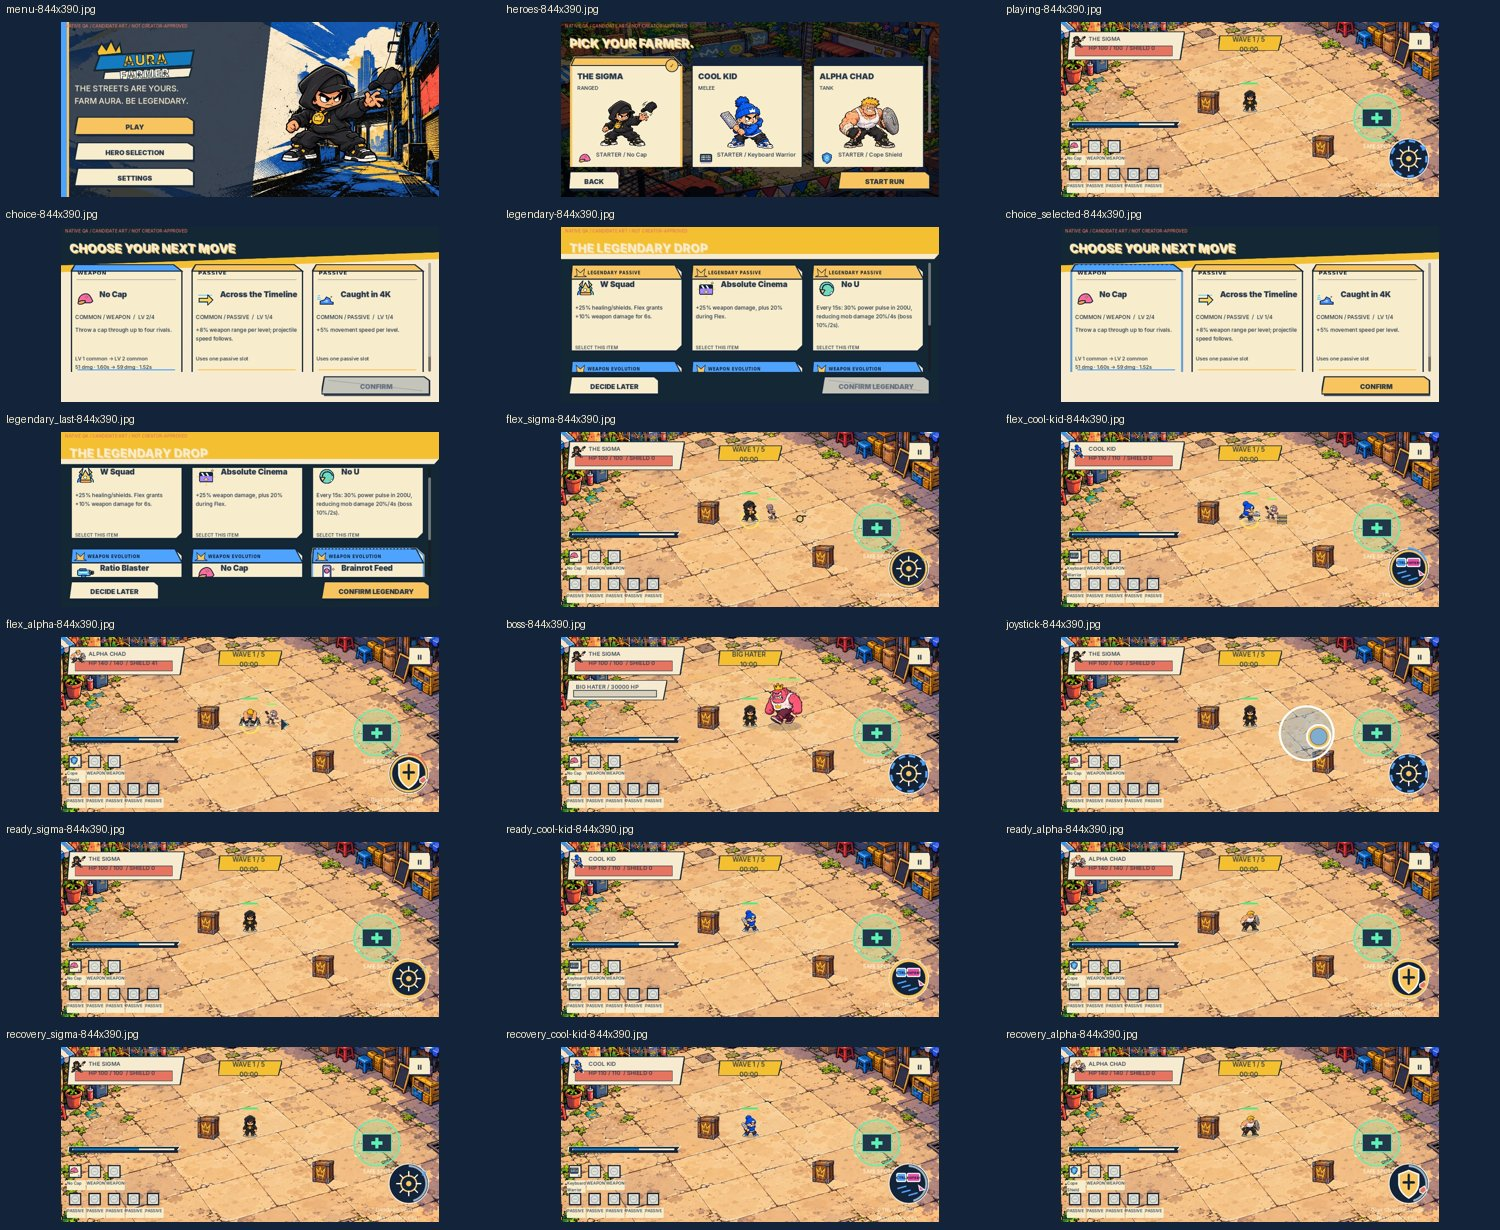
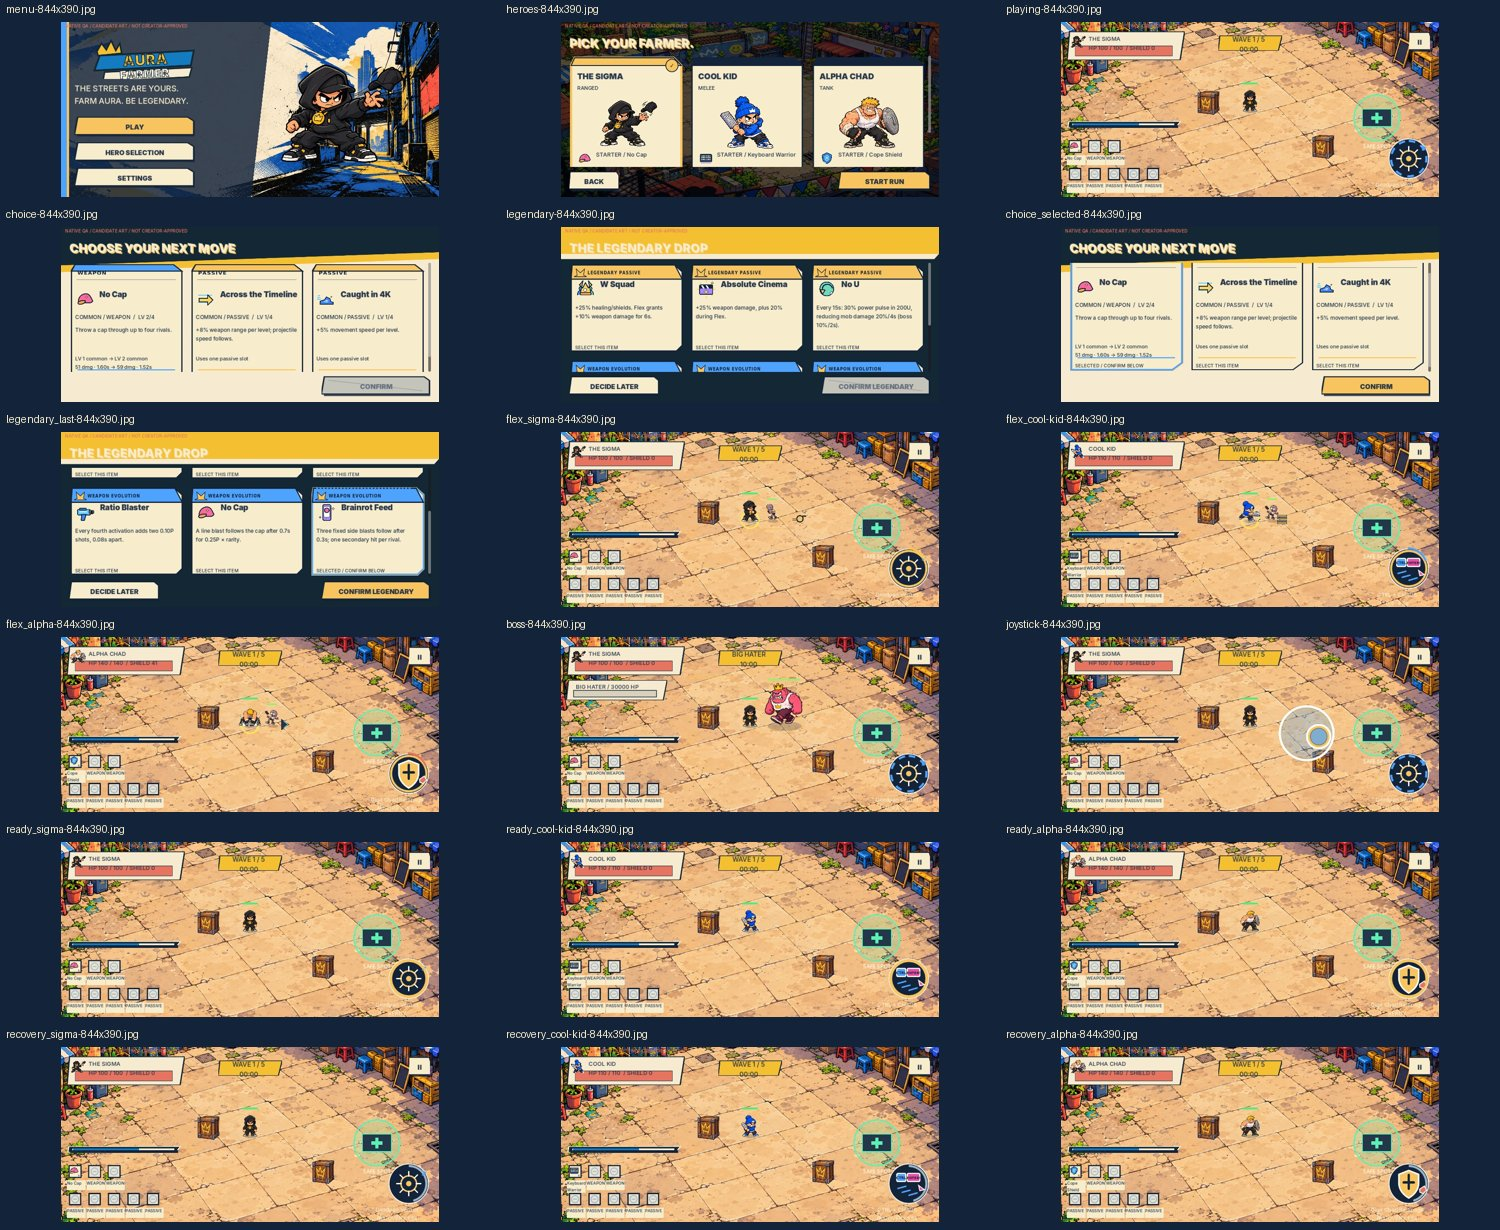
Reveal selected legendary after container sorting and retain corrected native evidence

Changed region(s): [[0.0307, 0.3707, 0.3067, 0.4943], [0.7053, 0.1854, 0.9507, 0.3089]]

diff --git a/docs/art/CLEAN_CUT_NATIVE_REVIEW.md b/docs/art/CLEAN_CUT_NATIVE_REVIEW.md
@@ -25,7 +25,7 @@ The wordmark source contains SVG text unsupported by the Godot SVG decoder. Its 
 
 ## Actual evidence and parity matrix
 
-`evidence/clean-cut-v2-review/` contains five before screenshots, 12 full-size final screenshots, six contact sheets, capture metadata and exact used-resource IDs. All 108 final images were rendered by official Godot 4.7.2, native X11 Compatibility on software Mesa/llvmpipe. Six requested sizes: 1600×900, 1280×720, 1920×1080, 915×412, 844×390 and 390×844. Actual output dimensions are retained, including 390×843 canvas rounding. Full-resolution files not retained in Git are explicitly marked in `captures.json`; every capture is represented on a contact sheet. Screenshots are staged fixtures, not survival runs.
+`evidence/clean-cut-v2-review/` contains five before screenshots, 13 full-size final screenshots, six contact sheets, capture metadata and exact used-resource IDs. All 108 final images were rendered by official Godot 4.7.2, native X11 Compatibility on software Mesa/llvmpipe. Six requested sizes: 1600×900, 1280×720, 1920×1080, 915×412, 844×390 and 390×844. Actual output dimensions are retained, including 390×843 canvas rounding. Full-resolution files not retained in Git are explicitly marked in `captures.json`; every capture is represented on a contact sheet. Screenshots are staged fixtures, not survival runs.
 
 | Corrected source composition | Native implementation and evidence | Remaining gap / acceptance |
 | --- | --- | --- |
@@ -33,7 +33,7 @@ The wordmark source contains SVG text unsupported by the Godot SVG decoder. Its 
 | Hero Selection | Three independently selectable real starters, original portraits, correct starter icons, signature help, selected frame and separate Start; `heroes-1600x900.jpg` | Portrait view scrolls; focus/selected art used, no acceptance of new art implied |
 | Gameplay HUD | Live HP/XP/Aura, wave/clock, 3+5 independent slots, single hero-specific Flex, pause, actual boss HP and circular movement component; `playing-1600x900.jpg`, `joystick-844x390.jpg`, `boss-1600x900.jpg` | Compact equipment text and warning contrast require further polish; boss uses existing master and animation, not a new export |
 | Three-card Upgrade | Three actual offers, type-aware frames, approved icons, live name/body/comparison, selected state and explicit Confirm; `choice-1600x900.jpg`, `choice-390x844.jpg` | Responsive scrolling replaces all-three-at-once portrait composition; compact typography not visually accepted |
-| Six-card Legendary | Six actual offers, weapon evolution/passive distinction, cached reopen, defer and explicit Confirm; `legendary-1600x900.jpg`, `legendary_last-390x844.jpg` | Portrait scroll exposes sixth option; no approval of future-only gameplay |
+| Six-card Legendary | Six actual offers, weapon evolution/passive distinction, cached reopen, defer and explicit Confirm; `legendary-1600x900.jpg`, `legendary_last-390x844.jpg` | Scroll waits for native container sorting and fully reveals the selected sixth card, with a regression assertion at all three functional-test sizes; no approval of future-only gameplay |
 
 Each contact sheet also shows selected normal/last legendary card, three active signatures, three ready states, three recovery states, boss and joystick. Charging appears in default gameplay. Hover/focus/pressed/disabled are bound to native Button states; the current image set is not complete visual acceptance of every state. Disabled Flex art is not displayed as an extra duplicate control in paused/choice screens. Signature effects use existing simulation state and existing VFX, not newly commissioned Flex animation. High-density performance, all 22 original V5 targets, secondary-screen reskin, physical Android/iOS, browser WebGL2 and normal-health full-run acceptance remain outstanding. No FPS or device claim is made.
 
